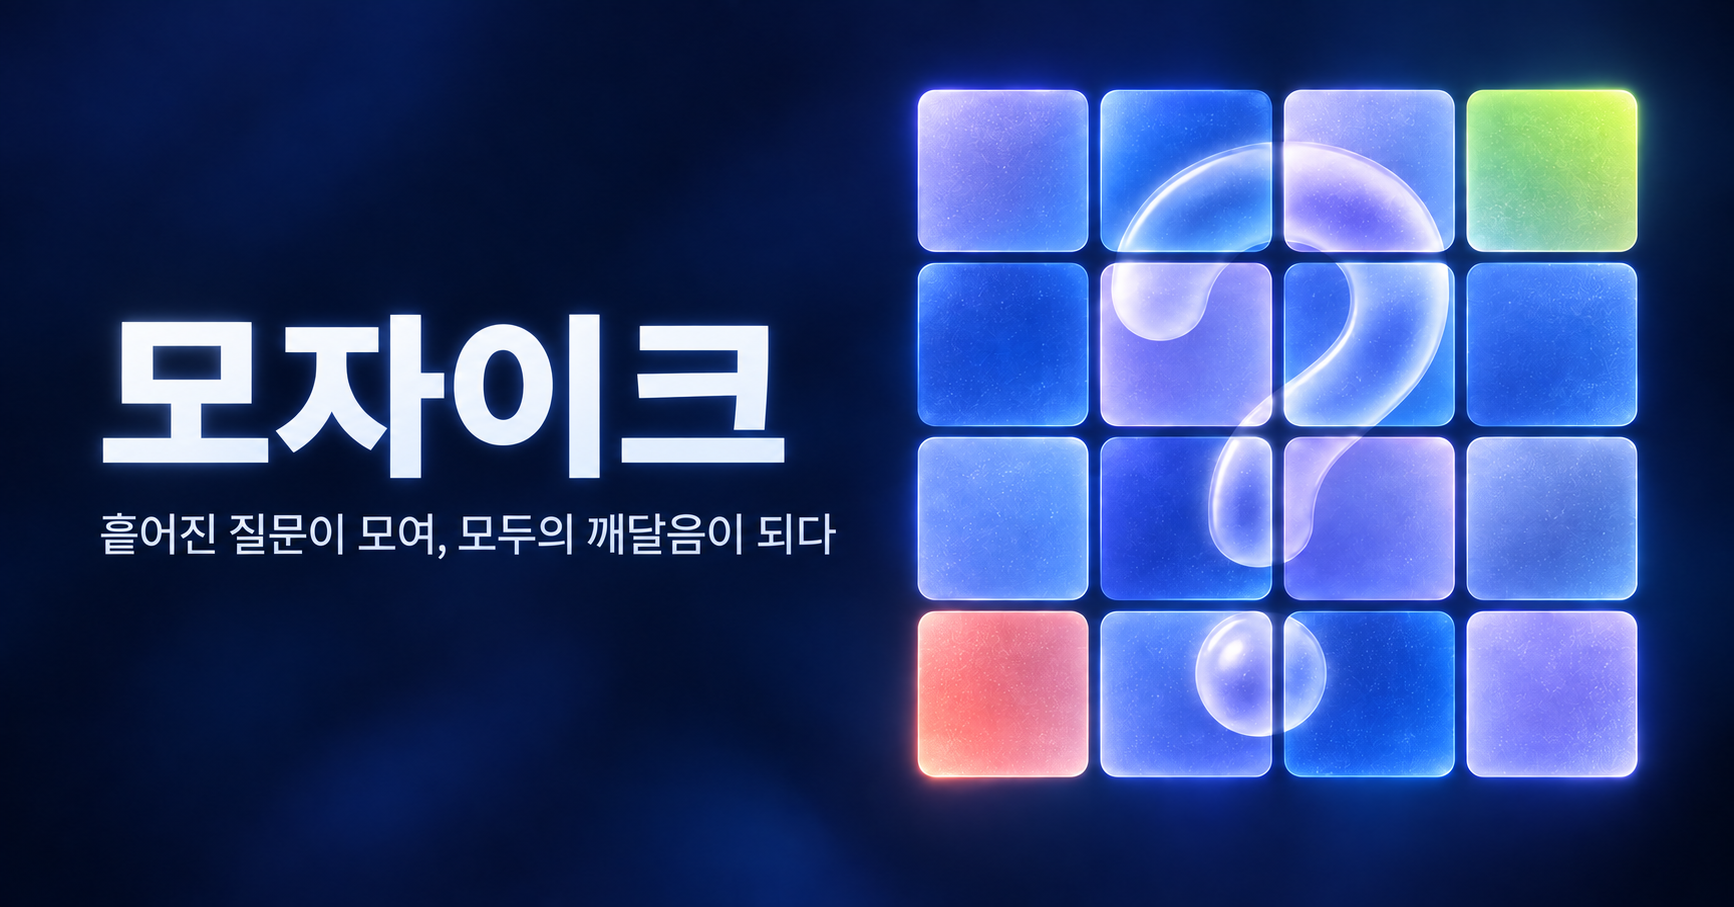
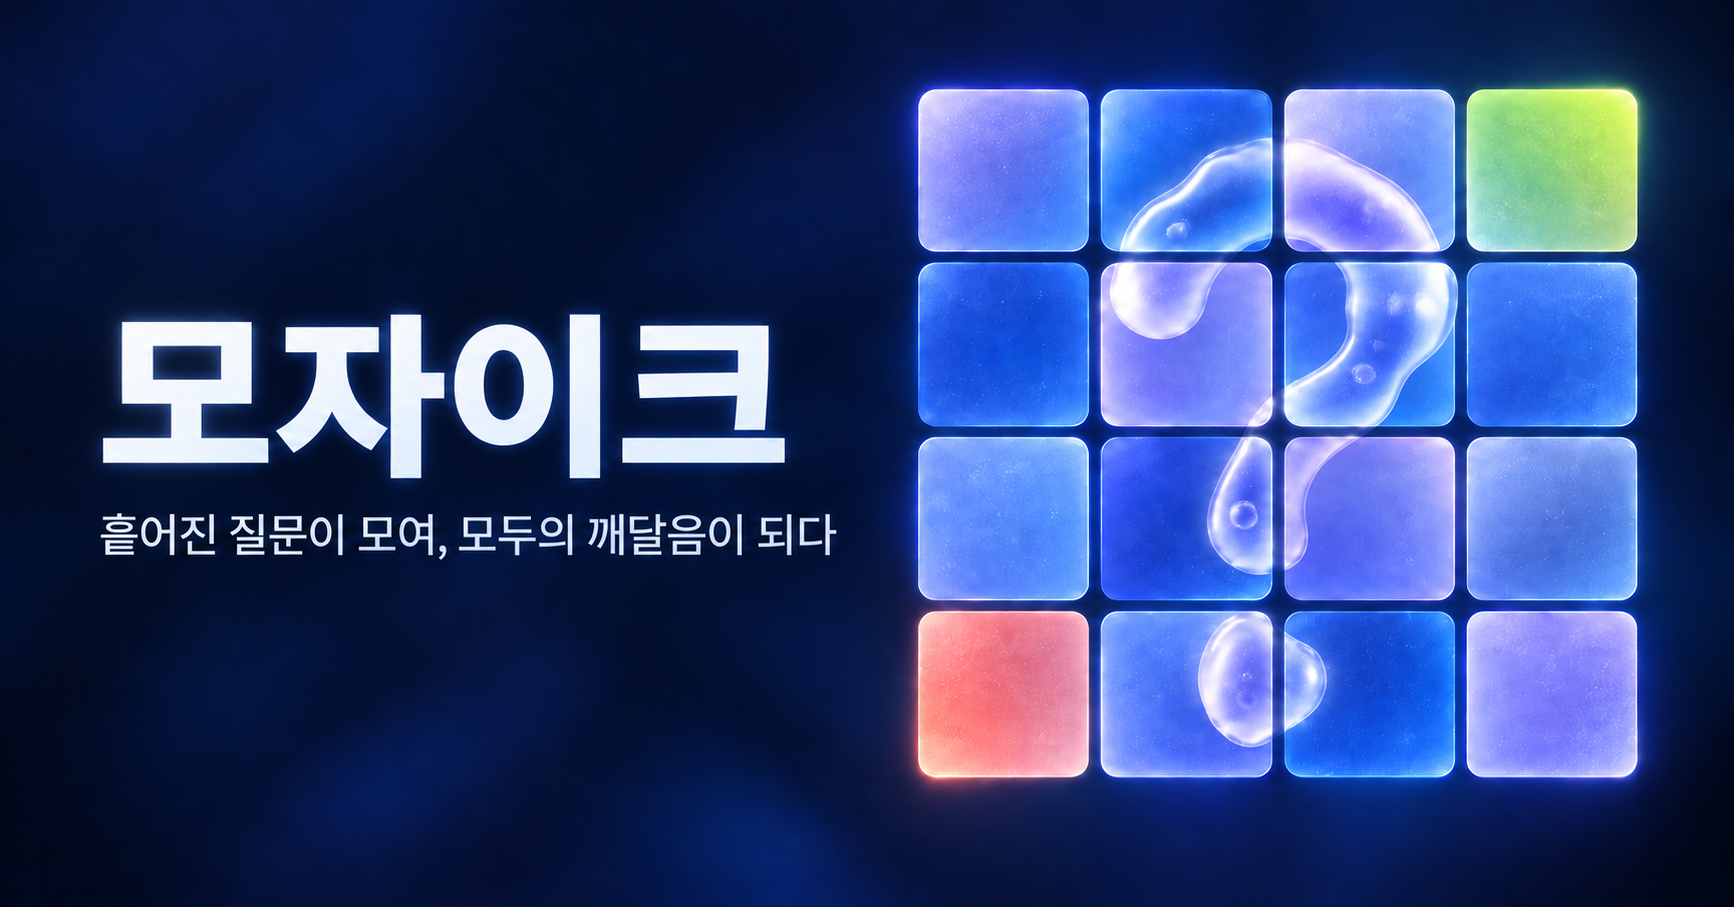
Make Mosaic question mark an irregular droplet

diff --git a/components/qsignal/MosaicMark.tsx b/components/qsignal/MosaicMark.tsx
@@ -44,11 +44,11 @@ export function MosaicMark() {
         filter="url(#mosaic-mark-question-glow)"
       >
         <path
-          d="M14.9 16.45C14.9 10.98 19.14 8.05 24.25 8.05c5.55 0 9.78 3.08 9.78 8.03 0 4.11-2.25 6.32-5.38 8.36-2.86 1.86-4.17 4.12-4.17 7.31 0 1.58-1.18 2.71-2.7 2.71s-2.62-1.22-2.62-2.77c0-4.56 1.85-7.85 5.82-10.46 2.38-1.56 3.6-2.9 3.6-4.89 0-2.34-1.94-3.98-4.62-3.98-2.94 0-4.82 1.83-4.82 4.36 0 1.72-.86 2.84-2.23 2.84-1.25 0-2.01-1.11-2.01-2.81Z"
+          d="M14.6 16.8c-.45-3.7 1.98-6.9 4.62-8.18 2.04-.99 3.88-.42 5.53.08 2.37-.6 4.95.66 6.57 2.5 1.72 1.93 2.54 4.55 1.86 6.84-.5 2.14-2.64 3.78-4.98 5.51-2.76 2.05-3.64 4.1-3.54 7.3.08 1.49-1.09 2.75-2.71 2.81-1.87.09-3.08-1.21-2.93-3.04.32-4.08 2.22-6.86 5.83-9.38 2.29-1.6 3.69-3.02 3.75-4.97.12-1.82-1.6-3.27-3.71-3.57-2.01-.25-3.54.84-4.15 2.82-.6 1.95-2.06 3.55-3.87 3.78-1.4.17-2.04-1.02-2.27-2.5Z"
           fill="url(#mosaic-mark-question-fill)"
         />
         <path
-          d="M21.55 34.8c1.78 0 3.15 1.43 3.03 3.14-.12 1.78-1.51 3.16-3.22 3.16-1.66 0-2.87-1.29-2.73-2.99.15-1.78 1.14-3.31 2.92-3.31Z"
+          d="M21.2 35.15c1.8-.71 3.48.88 3.25 2.61-.21 1.79-1.8 3.26-3.53 3.14-1.92-.14-2.48-1.88-1.82-3.45.45-1.13.98-1.85 2.1-2.3Z"
           fill="url(#mosaic-mark-question-fill)"
         />
       </g>
